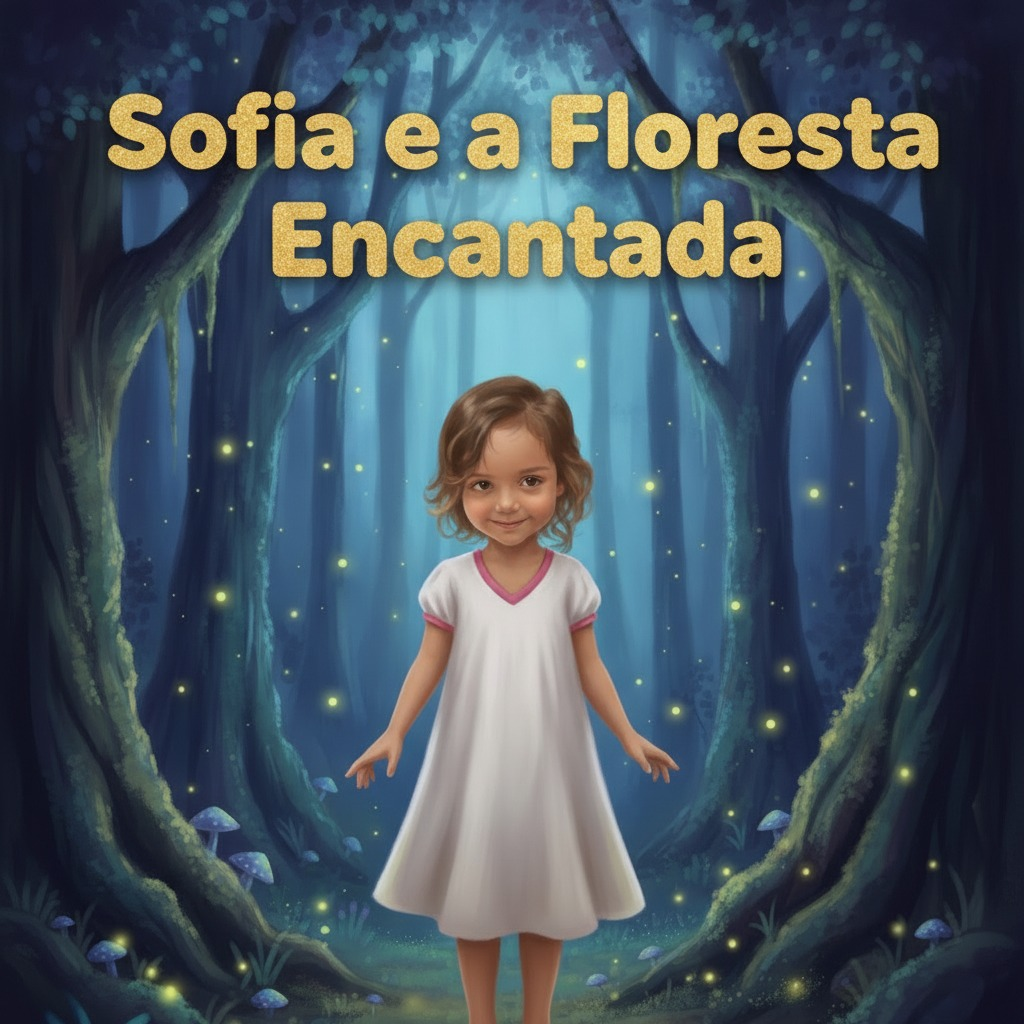
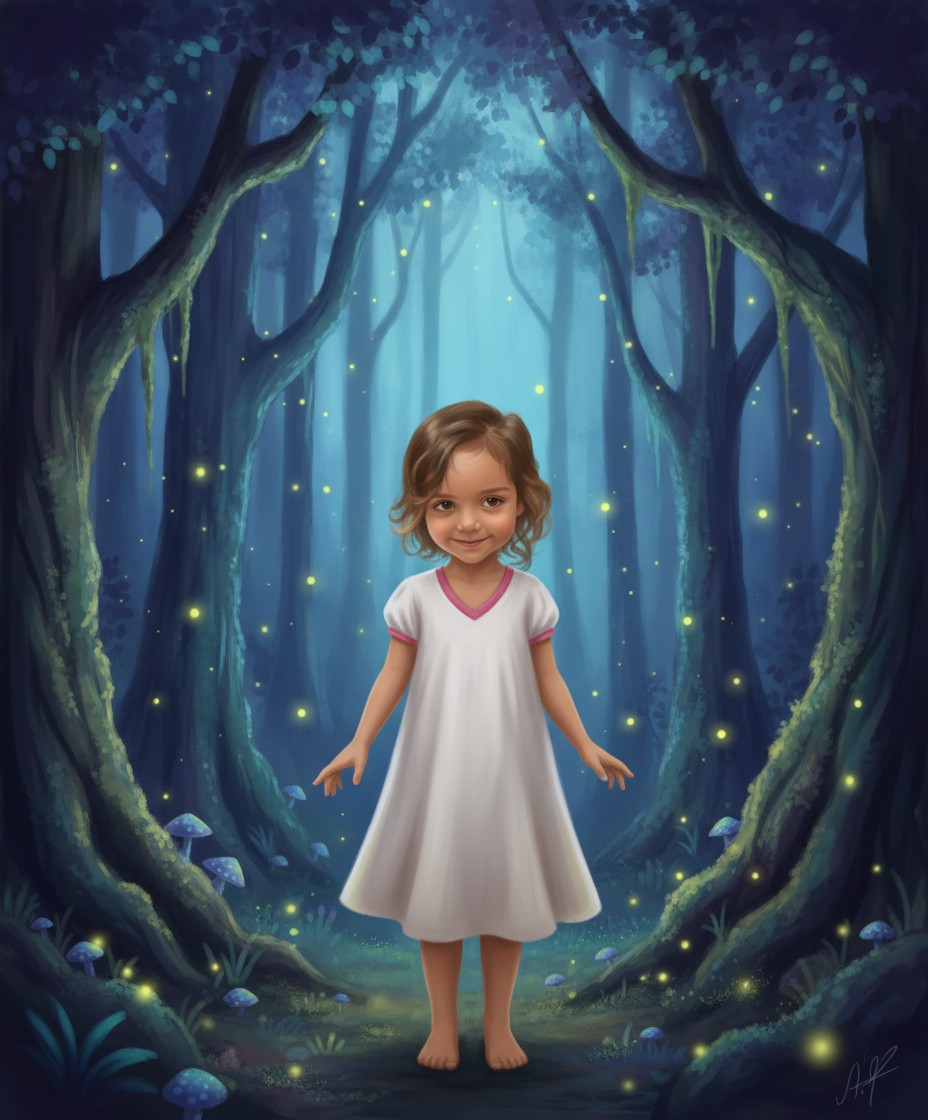
Fix hero book titles with clean covers and Baloo brown-cream type.
Replace burned-in AI titles with CSS overlays (name + theme) and reset hero images to untitled covers.

diff --git a/apps/web/src/landing.css b/apps/web/src/landing.css
@@ -106,37 +106,53 @@
     linear-gradient(90deg, rgba(9,15,32,.62) 0%, rgba(9,15,32,.22) 38%, rgba(9,15,32,.02) 58%),
     linear-gradient(0deg, rgba(9,15,32,.72) 0%, rgba(9,15,32,0) 42%);
 }
-/* título da capa — mesmo estilo/tamanho dourado da História Surpresa */
+/* título da capa — estilo Mundo dos Dinossauros (marrom + contorno creme) */
 .fb-stage,
 .banner-card { container-type: inline-size; }
 .kbh-cover-title,
 .fb-cover-title,
 .banner-book-title {
-  position: absolute; top: 6%; left: 50%; transform: translateX(-50%); z-index: 5;
+  position: absolute; top: 5.5%; left: 50%; transform: translateX(-50%); z-index: 5;
   width: 92%; max-width: 22ch; text-align: center; pointer-events: none;
-  font-family: 'Baloo 2', cursive; font-weight: 800; line-height: 1.02;
-  font-size: 1.7rem; letter-spacing: .02em;
-  color: #ffe27a;
-  text-shadow:
-    0 1px 0 #8a5a12,
-    0 2px 0 #7a4e10,
-    0 3px 10px rgba(0,0,0,.45),
-    0 0 18px rgba(255,210,80,.55);
+  font-family: 'Baloo 2', cursive; font-weight: 800; line-height: .98;
+  font-size: 1.55rem; letter-spacing: .01em;
+  color: #6b3e18;
+  -webkit-text-stroke: 4px #f7f1e6;
+  paint-order: stroke fill;
+  filter: drop-shadow(0 2px 6px rgba(0,0,0,.35));
 }
 .fb-cover-title,
-.banner-book-title { font-size: 14.5cqw; max-width: 90%; }
+.banner-book-title { font-size: 12.5cqw; max-width: 90%; -webkit-text-stroke: .1em #f7f1e6; }
+/* título do hero — nome + tema (ortografia natural, sem ALL CAPS) */
 .kbh-cover-title {
-  top: 7%; z-index: 4; left: 50%; width: min(380px, 48%); max-width: 22ch;
-  font-size: 1.7rem;
+  top: 4.5%; z-index: 5; left: 50%; width: min(520px, 58%); max-width: none;
+  display: flex; flex-direction: column; align-items: center; gap: 0;
+  font-size: clamp(1.7rem, 3.4vw, 2.7rem); line-height: .9; letter-spacing: .02em;
+  -webkit-text-stroke: 5px #f7f1e6;
+  filter:
+    drop-shadow(0 1px 0 rgba(90,50,16,.35))
+    drop-shadow(0 3px 10px rgba(0,0,0,.4));
+}
+.kbh-cover-title > span {
+  display: block; width: max-content; max-width: 100%; text-align: center;
+  white-space: nowrap;
+}
+.kbh-cover-name {
+  font-size: .52em; letter-spacing: .14em; margin-bottom: .18em;
+  color: #7a4a1c;
+  -webkit-text-stroke: 3px #f7f1e6;
+}
+.kbh-cover-theme {
+  font-size: 1em; letter-spacing: .03em;
 }
 .kbh-tag {
-  position: absolute; top: 18px; left: 18px; z-index: 4; display: inline-flex; flex-direction: column; gap: 2px;
-  background: #fff; padding: 8px 15px; border-radius: 16px; max-width: 230px;
+  position: absolute; top: 18px; left: 18px; z-index: 4; display: inline-flex; align-items: center;
+  background: #fff; padding: 8px 14px; border-radius: 999px;
   box-shadow: 0 10px 24px rgba(0,0,0,.22);
 }
 .kbh-tag-top { color: var(--purple); font-family: 'Baloo 2', cursive; font-weight: 800; font-size: .68rem; letter-spacing: 1.2px; display: inline-flex; align-items: center; gap: 5px; }
 .kbh-tag-top .ei { width: 14px; height: 14px; color: var(--yellow); }
-.kbh-tag b { color: #1f3568; font-family: 'Baloo 2', cursive; font-weight: 800; font-size: .96rem; line-height: 1.1; }
+.kbh-tag b { display: none; }
 .kbh-book {
   position: absolute; top: 50%; right: 5%; transform: translateY(-50%); z-index: 4; margin: 0;
   width: 25%; max-width: 218px; aspect-ratio: 3 / 4; border-radius: 16px; overflow: hidden;
@@ -156,11 +172,11 @@
   .kbanner-hero { padding: 12px 14px 4px; }
   .kbh-frame { aspect-ratio: 3 / 4; min-height: 0; }
   .kbh-photo { object-position: center center; }
-  .kbh-cover-title { left: 50%; width: min(300px, 78%); max-width: 16ch; top: 6%; font-size: 1.75rem; }
-  .kbh-tag { top: 12px; left: 12px; padding: 6px 12px; max-width: 60%; }
+  .kbh-cover-title { left: 50%; width: min(340px, 88%); top: 4%; font-size: clamp(1.35rem, 5.8vw, 1.85rem); -webkit-text-stroke: 4px #f7f1e6; }
+  .kbh-cover-name { -webkit-text-stroke: 2.5px #f7f1e6; letter-spacing: .12em; }
+  .kbh-tag { top: 12px; left: 12px; padding: 6px 12px; }
   .kbh-tag-top { font-size: .62rem; letter-spacing: 1px; }
-  .kbh-tag b { font-size: .84rem; }
-  .kbh-book { width: 36%; max-width: 160px; top: 13%; right: 6%; transform: none; }
+  .kbh-book { width: 34%; max-width: 148px; top: 18%; right: 5%; transform: none; }
   .kbh-overlay { left: 6%; right: 6%; max-width: none; bottom: 9%; }
   .kbh-overlay h1 { font-size: 1.95rem; margin: 8px 0 6px; }
   .kbh-overlay p { font-size: .98rem; margin-bottom: 14px; }
@@ -170,8 +186,8 @@
 @media (max-width: 480px) {
   .kbh-frame { aspect-ratio: 3 / 4.3; }
   .kbh-photo { object-position: center center; }
-  .kbh-cover-title { font-size: 1.7rem; top: 5%; }
-  .kbh-book { width: 40%; top: 11%; }
+  .kbh-cover-title { font-size: 1.25rem; top: 3.5%; -webkit-text-stroke: 3.5px #f7f1e6; }
+  .kbh-book { width: 36%; top: 16%; }
   .kbh-overlay { bottom: 7%; }
   .kbh-overlay .keyebrow { font-size: .7rem; padding: 5px 11px; }
   .kbh-overlay h1 { font-size: 1.6rem; }

diff --git a/apps/web/src/Landing.tsx b/apps/web/src/Landing.tsx
@@ -62,11 +62,33 @@ const BANNER_CATALOG_I = [3, 0, 2];
 /* um card por tema do catálogo — src null = ainda sem exemplo de vídeo */
 const VIDEO_IMGS = ["mar-2.jpg", "flor-2.jpg", "dino-2.jpg", "circo-2.jpg"];
 const VIDEO_SRCS: (string | null)[] = ["video-mar.mp4", "video-flor.mp4", "video-dino.mp4", "video-circo.mp4"];
-// Slides do hero: capa com título IA (dourado) + foto real (card pequeno)
-const HERO_SLIDES: { photo: string; book: string; catalogI: number; bookPos?: string; photoPos?: string }[] = [
-  { photo: "foto-matteo.png", book: "hero-dino.jpg", catalogI: 2, bookPos: "28% 22%", photoPos: "center center" },
-  { photo: "foto-sofia.png", book: "hero-flor.jpg", catalogI: 1, bookPos: "center 30%", photoPos: "center center" },
-  { photo: "foto-bebe.jpg", book: "hero-circo.jpg", catalogI: 3, bookPos: "center 32%", photoPos: "center center" },
+// Slides do hero: capa limpa + título (nome + tema), estilo Mundo dos Dinossauros
+const HERO_SLIDES: {
+  photo: string; book: string; catalogI: number;
+  title: { pt: { name: string; theme: [string, string] }; en: { name: string; theme: [string, string] } };
+  bookPos?: string; photoPos?: string;
+}[] = [
+  {
+    photo: "foto-matteo.png", book: "capa-dino2.jpg", catalogI: 2, bookPos: "center 18%", photoPos: "center center",
+    title: {
+      pt: { name: "Matteo", theme: ["Mundo dos", "Dinossauros"] },
+      en: { name: "Matteo", theme: ["Dinosaur", "World"] },
+    },
+  },
+  {
+    photo: "foto-sofia.png", book: "capa-floresta2.jpg", catalogI: 1, bookPos: "center 18%", photoPos: "center center",
+    title: {
+      pt: { name: "Sofia", theme: ["Floresta", "Encantada"] },
+      en: { name: "Sofia", theme: ["Enchanted", "Forest"] },
+    },
+  },
+  {
+    photo: "foto-bebe.jpg", book: "capa-circo.jpg", catalogI: 3, bookPos: "center 20%", photoPos: "center center",
+    title: {
+      pt: { name: "Noah", theme: ["Circo das", "Luzes"] },
+      en: { name: "Noah", theme: ["Circus of", "Lights"] },
+    },
+  },
 ];
 const FLIP_MS = 600;
 const FLIP_AUTO_MS = 2000;
@@ -388,7 +410,7 @@ const I18N = {
     videos: [
       { t: "Lia and the Deep Sea", p: "An ocean adventure with enchanting narration." },
       { t: "Sofia and the Enchanted Forest", p: "Gentle little creatures and firefly lights, with a soft soundtrack." },
-      { t: "Matteo and Dinosaur World", p: "A journey through the dinosaur valley, with voice and music." },
+      { t: "Matteo and the Dinosaur World", p: "A journey through the dinosaur valley, with voice and music." },
       { t: "Noah and the Circus of Lights", p: "A magical night full of sparkle and music." },
     ],
     vid_soon: "Coming soon",
@@ -409,7 +431,7 @@ const I18N = {
     catalog: [
       { t: "Lia and the Deep Sea", p: "An ocean adventure with sea friends.", age: "ages 3-6", tag: "Courage & friendship", quote: "Courage that dives deep — and comes back with friends." },
       { t: "Sofia and the Enchanted Forest", p: "Gentle creatures and magical firefly lights.", age: "ages 3-6", tag: "Kindness & nature", quote: "Where kindness lights up the fireflies." },
-      { t: "Matteo and Dinosaur World", p: "A valley full of gentle dinosaurs.", age: "ages 4-7", tag: "Discovery & curiosity", quote: "A fun journey back to the dinosaur age." },
+      { t: "Matteo and the Dinosaur World", p: "A valley full of gentle dinosaurs.", age: "ages 4-7", tag: "Discovery & curiosity", quote: "A fun journey back to the dinosaur age." },
       { t: "Noah and the Circus of Lights", p: "A magical night full of sparkle.", age: "ages 3-6", tag: "Dream & shine", quote: "A night made to dream and shine." },
     ],
     surprise: { t: "Surprise Story (AI)", p: "Let the AI invent a unique adventure from the photo.", age: "ages 3-8", tag: "Made-to-fit adventure", quote: "Every photo hides a secret adventure." },
@@ -528,9 +550,14 @@ export function Landing() {
                 loading={i === 0 ? "eager" : "lazy"}
                 style={s.bookPos ? { objectPosition: s.bookPos } : undefined}
               />
+              <span className="kbh-cover-title" aria-hidden>
+                <span className="kbh-cover-name">{s.title[lang].name}</span>
+                {s.title[lang].theme.map((line) => (
+                  <span className="kbh-cover-theme" key={line}>{line}</span>
+                ))}
+              </span>
               <span className="kbh-tag">
                 <span className="kbh-tag-top"><IcEye className="ei" /> {t.ba_preview}</span>
-                <b>{t.catalog[s.catalogI].t}</b>
               </span>
               <figure className="kbh-book">
                 <img
